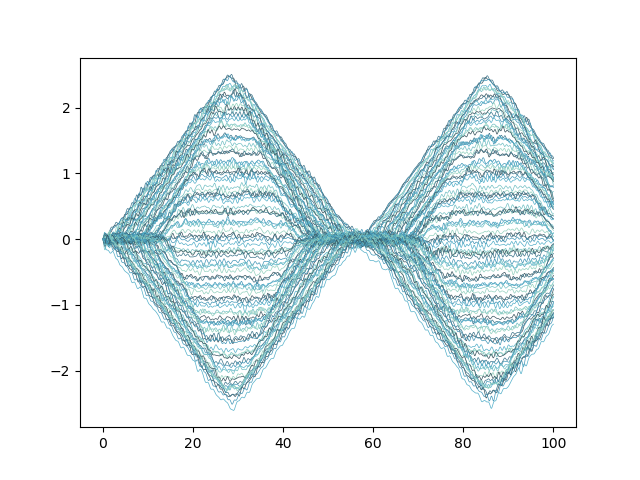
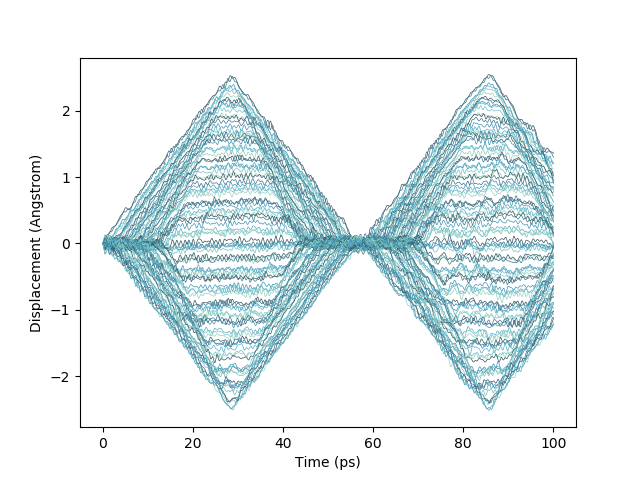
All code working as required, just commenting left

diff --git a/Assignment 4/Lennard_Jones.py b/Assignment 4/Lennard_Jones.py
@@ -116,7 +116,7 @@ def adjacent_pairs(x):
         positions of all atoms in chain
     '''
     N = len(x)
-    r = [pos[n]-pos[n+1] for n in range(N-1)]
+    r = [x[n+1]-x[n] for n in range(N-1)]
 
     return r
 
@@ -177,13 +177,88 @@ def velocityverlet(N, accel, x0, v0, dt, nt):
     return x,v,V
 
 #sns.palplot(sns.color_palette("GnBu_d"))
-def multiplot(N,x,y,l,cmap,plotname=None):
+def multiplot(N,x,y,l,cmap,plotname, xlabel, ylabel, relative_init=True, lim = None, legend = None):
+    '''
+    Plots multiple fucntions against the same y axis and saves figure as a png image
+    '''
+
+    if legend is None:
+        legend = [None for i in range(N)]
+
     plt.figure(N)
     sns.set_palette(cmap)
-    for i in range(N):
-        plt.plot(x,y[i]-y[i][0], linewidth = l)
-    plt.savefig(plotname)
+    if relative_init:
+        for i in range(N):
+            plt.plot(x,y[i]-y[i][0], linewidth = l,label = legend[i])
 
+    else:
+        for i in range(N):
+            plt.plot(x,y[i], linewidth = l,label = legend[i])
+
+
+    if xlabel is not None:
+        plt.xlabel(xlabel)
+    if ylabel is not None:
+        plt.ylabel(ylabel)
+    if lim is not None:
+        plt.xlim(0,lim)
+    if legend[0] is not None:
+        plt.legend()
+    if plotname is not None:
+        plt.savefig(plotname)
+    else:
+        plt.savefig('Plot')
+
+def Energy_plots(nt,Vvals,vvals,tvals):
+
+    #Unit conversions
+    e = 1.6e-19
+    A_to_m = 1e-10
+    ps_to_s = 1e-12
+
+    #Alternative units - to SI and back
+    Fev_to_FSI = e/A_to_m #converting a force in eV per Angstrom to kg m s^-2
+    aSI_to_aAps = ps_to_s**2/A_to_m # converting an acceleration from ms^-2 to Angstrom per ps^-2
+
+    m = 6.63e-26/(Fev_to_FSI*aSI_to_aAps) # mass in eV ps^2 per Angstrom^2
+
+    #Calculate kinetic energy at each timestep as sum of individual atomic kinetic energies
+    Tvals = np.array([0.5*m*np.sum(np.multiply(vvals[:,i],vvals[:,i])) for i in range(nt)])
+
+    Energies = [Vvals,Tvals,Vvals+Tvals]
+
+    multiplot(3,tvals,Energies,0.2,'Set1','Energies', xlabel = 'Time (ps)', ylabel = 'Energy (eV)',legend = ['Potential Energy','Kinetic Energy', 'Total Energy'])
+
+    return Tvals
+
+def Fourier(N,dt,nt,xvals):
+    samples = np.zeros(nt)
+    nn_separations = np.array([adjacent_pairs(xvals[:,i]) for i in range(nt)])
+    nn_average = np.array([np.sum(nn_separations[:,i])/nt for i in range(N-1)])/nt
+    samples = [nn_separations[:,i] - nn_average[i] for i in range(N-1)]
+
+    #fft
+    ftr = np.zeros((N,int(nt/2+1)))
+    fti = np.zeros((N,int(nt/2+1)))
+    for i in range(N-1):
+        ft_samples = np.fft.rfft(samples[i])
+        ftr[i] = np.array(np.real(ft_samples))
+        fti[i] = np.array(np.imag(ft_samples))
+
+    ftr_avg = np.array([np.sum(ftr[:,i]) for i in range(len(ftr[0]))])/len(ftr[0])
+    ftr_avg = ftr_avg.tolist()
+    fti_avg = np.array([np.sum(fti[:,i]) for i in range(len(fti[0]))])/len(fti[0])
+    fti_avg = fti_avg.tolist()
+    freqs = np.fft.rfftfreq(len(samples[0]), dt)
+    freqs = freqs.tolist()
+
+    ftr_avg.remove(ftr_avg[0])
+    fti_avg.remove(fti_avg[0])
+    freqs.remove(freqs[0])
+
+    multiplot(2,freqs,[ftr_avg,fti_avg] ,0.5,'husl','Fourier Transform',relative_init=False,lim = 2, xlabel = 'Frequency (THz)', ylabel = None, legend=('Real','Imaginary'))
+
+    return ftr_avg, fti_avg
 
 def main(N,t,dt):
     '''
@@ -198,54 +273,20 @@ def main(N,t,dt):
 
     '''
 
-    #Unit conversions
-    e = 1.6e-19
-    A_to_m = 1e-10
-    ps_to_s = 1e-12
-
-    #Alternative units - to SI and back
-    Fev_to_FSI = e/A_to_m #converting a force in eV per Angstrom to kg m s^-2
-    aSI_to_aAps = ps_to_s**2/A_to_m # converting an acceleration from ms^-2 to Angstrom per ps^-2
-
-    m = 6.63e-26/(Fev_to_FSI*aSI_to_aAps) # mass in eV ps^2 per Angstrom^2
-
     #Initialise time-step and duration, determine initial values and call differential equation solver
     nt = int(t/dt)
     tvals = np.linspace(0, t, nt)
     pos,v0 = Init(N)
     xvals,vvals,Vvals = velocityverlet(N,Accel,pos,v0,dt,nt)
 
-    samples = np.zeros(nt)
+    multiplot(len(xvals),tvals,xvals,0.5,'GnBu_d','Displacement from initial position',xlabel = 'Time (ps)', ylabel = 'Displacement (Angstrom)')
 
-    #plot displacement from initial position for each atom
-    # for i in range(len(xvals)):
-    #     plt.plot(tvals, xvals[i]-xvals[i][0], linewidth = 0.5)
-    # plt.savefig('Displacement from initial position',dpi=700)
-    multiplot(len(xvals),tvals,xvals,0.5,'GnBu_d','Displacement from initial position')
+    Tvals = Energy_plots(nt,Vvals,vvals,tvals)
 
-    #Calculate kinetic energy at each timestep as sum of individual atomic kinetic energies
-    Tvals = np.array([0.5*m*np.sum(np.multiply(vvals[:,i],vvals[:,i])) for i in range(nt)])
-    print('V = ', len(Vvals),' ',Vvals-Vvals[0], 'T = ', len(Tvals),' ',Tvals, 't = ', len(tvals))
-
-    #Generate plots of potential, kinetic and total energies
-    # plt.figure(6)
-    # plt.plot(tvals, Vvals-Vvals[0],'r-.',linewidth = 0.2) #Sometimes this is a positive curve and sometimes it is negative.....
-    # #plt.savefig('Potential Energy')
-    # #plt.figure(7)
-    # plt.plot(tvals, Tvals,'c-',linewidth = 0.2) #Tiimes by 10^-2 gives same order of magnitude as V but I don't know why..
-    # #plt.savefig('Kinetic Energy')
-    # #plt.figure(8)
-    # plt.plot(tvals, Tvals+Vvals-Vvals[0], 'b--',linewidth = 0.2)
-    # plt.savefig('Total Energy')
-
-    Energies = [Vvals,Tvals,Vvals+Tvals]
-
-    multiplot(3,tvals,Energies,0.2,'Set1','Energies')
+    ftr_avg, fti_avg = Fourier(N,dt,nt,xvals)
 
 
-    return Tvals+Vvals-Vvals[0]
 
 if __name__=='__main__':
-    #pos, v0 = Init(100)
-    #a,V,r,F = Accel(pos)
-    main(2,50,0.05)
+
+    main(100,100,0.05)
